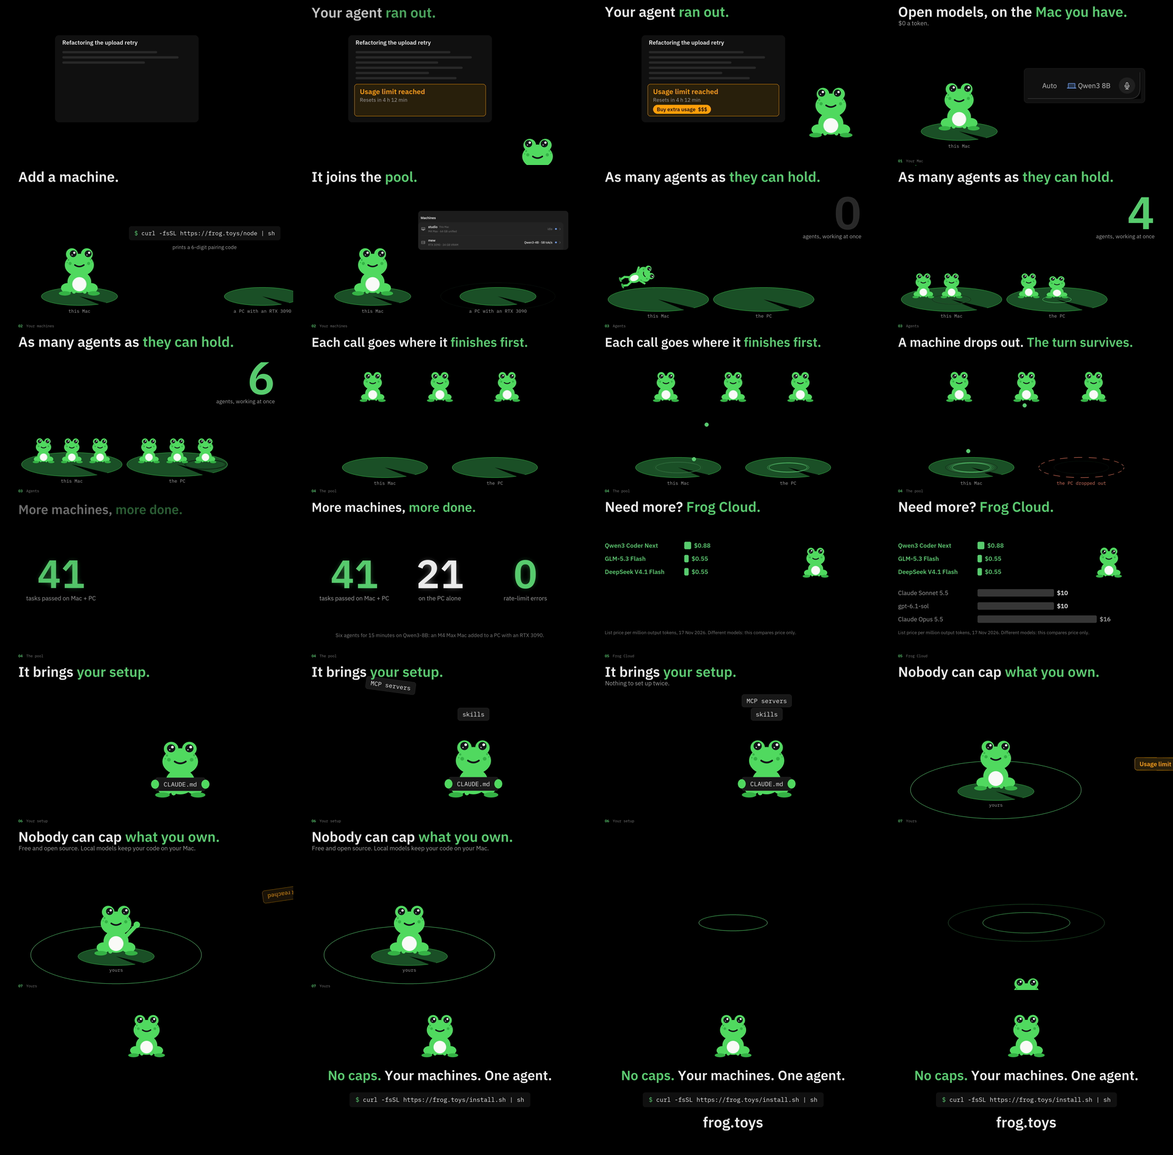
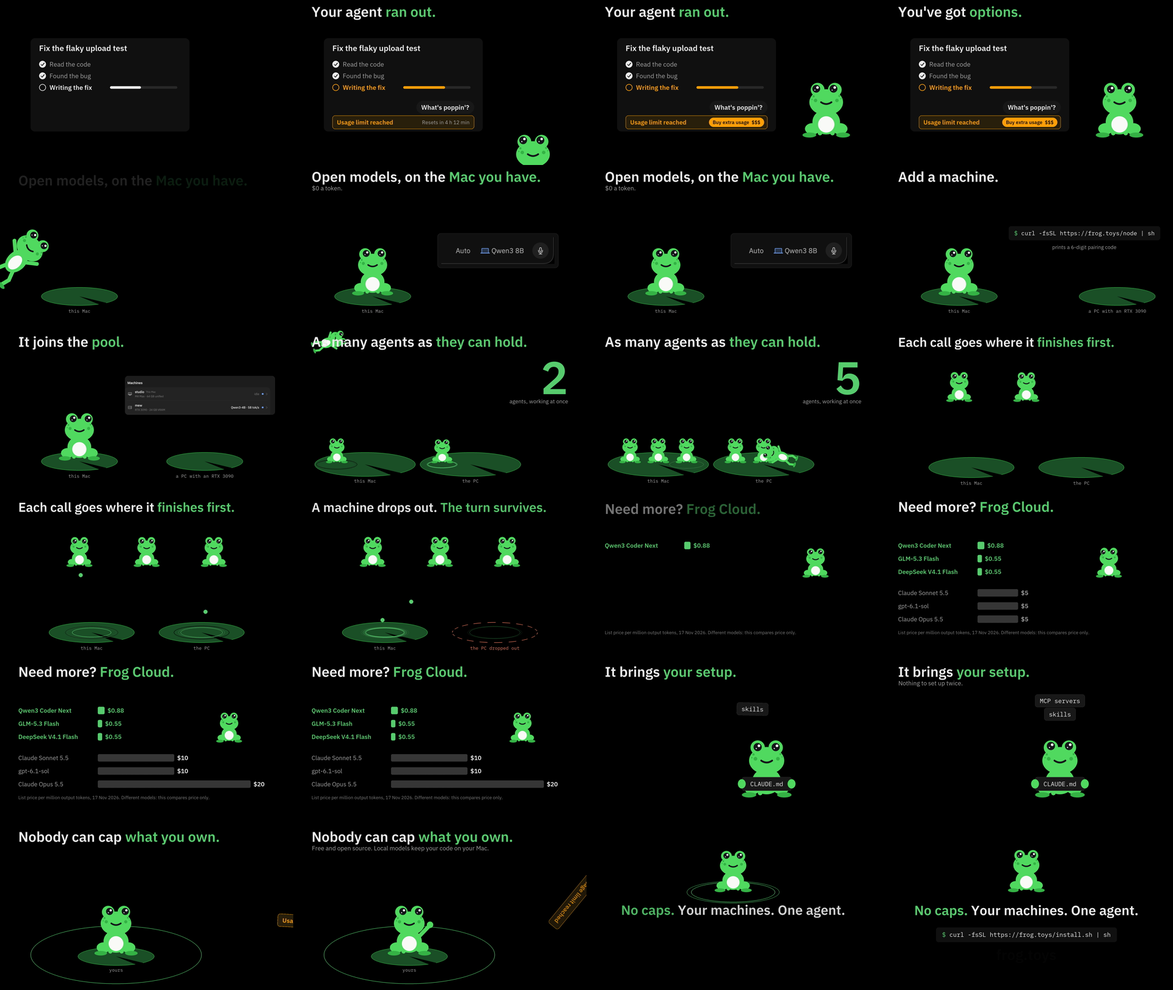
video: recut to "WHATS POPPIN", a clearer open, no bench, no corner labels
The grid is refitted to the new track (144.99 BPM). Its bass-free intro
carries the open, which now starts on a readable task card: two steps
done, a third under way. "What's poppin'?" is the message sent to the
other agent, the frog hops in on "just hopped in", and "I got options"
turns the title to "You've got options." The bench scene and the
section labels are gone. The reel ends in the breakdown at 36.5 s.

diff --git a/video/hype-reel/comp.py b/video/hype-reel/comp.py
@@ -13,7 +13,7 @@ from multiprocessing import Pool
 from pathlib import Path
 import numpy as np
 from PIL import Image, ImageDraw, ImageFont, ImageFilter
-from beats import B, BEAT, CUT, DUR, FPS, JUMP, NFRAMES, W, H
+from beats import ASK, B, BEAT, CUT, DUR, FPS, JUMP, NFRAMES, OPTIONS, W, H
 from frog import sprite, place
 
 HERE = Path(__file__).resolve().parent
@@ -224,34 +224,56 @@ def chip(img, cx, cy, text, alpha=1.0, rot=0.0, size=40, kind="well"):
 
 # ---- shots. Each draws the frame at time t; lt = seconds into the shot.
 def s_open(t, lt):
-    """another agent, mid-task, hits its usage limit. The frog hops in on "no jumper"."""
+    """the intro: you ask another agent what's up, and it has hit its usage limit. The frog hops
+    in on "just hopped in", and on "I got options" the title turns."""
     img = Image.new("RGB", (W, H), CANVAS); d = ImageDraw.Draw(img)
-    x0, y0, x1, y1 = 360, 230, 1300, 800
-    d.rounded_rectangle([x0, y0, x1, y1], radius=26, fill=CARD)
-    d.text((x0 + 48, y0 + 62), "Refactoring the upload retry", font=sans(38), fill=FG, anchor="ls")
-    widths = [620, 760, 540, 700, 480, 660, 580, 420][:6]
-    n = min(6, on_beat(t, 0, 8, 0.5)) if t < B(4) else 6  # the work streams, a line every half beat, until it stops
-    for i in range(n):
-        d.rounded_rectangle([x0 + 48, y0 + 104 + i * 34, x0 + 48 + widths[i], y0 + 118 + i * 34], radius=7, fill=LINE)
-    if t >= B(4):  # the track's dip: it stops
-        k = ease(seg(t, B(4), B(4) + 0.18))
-        bx0, by0, bx1, by1 = x0 + 40, y1 - 250 + (1 - k) * 20, x1 - 40, y1 - 40 + (1 - k) * 20
-        d.rounded_rectangle([bx0, by0, bx1, by1], radius=18, fill=NOTICE_BG, outline=NOTICE, width=2)
-        d.text((bx0 + 36, by0 + 66), "Usage limit reached", font=sans(46), fill=NOTICE, anchor="ls")
-        d.text((bx0 + 36, by0 + 116), "Resets in 4 h 12 min", font=sans(34, False), fill=MUTED, anchor="ls")
-        if t >= B(6):
-            f = sans(34); label = "Buy extra usage  $$$"
-            tw = d.textlength(label, font=f)
-            d.rounded_rectangle([bx0 + 36, by0 + 136, bx0 + 36 + tw + 48, by0 + 194], radius=29, fill=NOTICE)
-            d.text((bx0 + 60, by0 + 165), label, font=f, fill=(0x1a, 0x12, 0x02), anchor="lm")
-        words(img, t, B(4), [("Your agent ", False), ("ran out.", True)], where="top")
-    # the frog: peeks over the bottom edge when the work stops, then hops in on "no jumper"
-    fx, fy, size = 1600, 900, 200
+    x0, y0, x1, y1 = 200, 250, 1240, 860
+    d.rounded_rectangle([x0, y0, x1, y1], radius=28, fill=CARD)
+    # frame 0 already reads: a task, two steps done, a third under way
+    d.text((x0 + 56, y0 + 84), "Fix the flaky upload test", font=sans(52), fill=FG, anchor="ls")
+    stopped = t >= B(4)
+    rows = [("Read the code", True), ("Found the bug", True), ("Writing the fix", False)]
+    for i, (label, done) in enumerate(rows):
+        ry = y0 + 170 + i * 76
+        if done:
+            d.ellipse([x0 + 56, ry - 22, x0 + 100, ry + 22], fill=FG)
+            d.line([(x0 + 67, ry), (x0 + 75, ry + 9), (x0 + 90, ry - 9)], fill=CARD, width=5, joint="curve")
+            d.text((x0 + 124, ry), label, font=sans(42, False), fill=MUTED, anchor="lm")
+        else:
+            col = NOTICE if stopped else FG
+            d.ellipse([x0 + 56, ry - 22, x0 + 100, ry + 22], outline=col, width=4)
+            d.text((x0 + 124, ry), label, font=sans(42), fill=col, anchor="lm")
+            bx, bw = x0 + 520, 440
+            fill = min(0.62, 0.30 + 0.08 * on_beat(t, 0, 4))  # it creeps forward a beat at a time, then stops
+            d.rounded_rectangle([bx, ry - 8, bx + bw, ry + 8], radius=8, fill=LINE)
+            d.rounded_rectangle([bx, ry - 8, bx + bw * fill, ry + 8], radius=8, fill=col)
+    if t >= ASK:  # "What's poppin'?": your message, on the lyric
+        k = ease(seg(t, ASK, ASK + 0.15)); f = sans(42); msg = "What's poppin'?"
+        tw = d.textlength(msg, font=f)
+        bx1, by0 = x1 - 56, y0 + 410 + (1 - k) * 16
+        d.rounded_rectangle([bx1 - tw - 64, by0, bx1, by0 + 84], radius=42, fill=WELL)
+        d.text((bx1 - 32 - tw / 2, by0 + 42), msg, font=f, fill=FG, anchor="mm")
+    if stopped:  # beat 4: the answer
+        k = ease(seg(t, B(4), B(4) + 0.15))
+        ax0, ay0, ax1, ay1 = x0 + 56, y1 - 104 + (1 - k) * 16, x1 - 56, y1 - 16 + (1 - k) * 16
+        d.rounded_rectangle([ax0, ay0, ax1, ay1], radius=18, fill=NOTICE_BG, outline=NOTICE, width=2)
+        d.text((ax0 + 30, ay0 + 44), "Usage limit reached", font=sans(40), fill=NOTICE, anchor="lm")
+        if t < B(6):
+            d.text((ax1 - 30, ay0 + 44), "Resets in 4 h 12 min", font=sans(34, False), fill=MUTED, anchor="rm")
+        else:
+            f = sans(32); label = "Buy extra usage  $$$"; tw = d.textlength(label, font=f)
+            d.rounded_rectangle([ax1 - tw - 70, ay0 + 14, ax1 - 22, ay0 + 74], radius=30, fill=NOTICE)
+            d.text((ax1 - 46 - tw / 2, ay0 + 44), label, font=f, fill=(0x1a, 0x12, 0x02), anchor="mm")
+    if stopped and t < OPTIONS: words(img, t, B(4), [("Your agent ", False), ("ran out.", True)], where="top")
+    if t >= OPTIONS: words(img, t, OPTIONS, [("You've got ", False), ("options.", True)], where="top")
+    # the frog: peeks over the bottom edge when the work stops, then hops in on "just hopped in"
+    fx, fy, size = 1570, 900, 220
     if t < JUMP[0]:
-        k = ease(seg(t, B(4), B(4) + 0.3))
-        if k > 0: frog_at(img, t, fx, H + 190 - 175 * k, size, "head", look=(-0.7, -0.6), blink=False)
+        k = ease(seg(t, B(4), B(4) + 0.25))
+        if k > 0: frog_at(img, t, fx, H + 200 - 185 * k, size, "head", look=(-0.7, -0.6), blink=False)
     else:
-        hop(img, t, JUMP[0], JUMP[1], (fx, H + 260), (fx, fy), size, height=330, look=(-0.8, -0.3))
+        look = (-0.8, -0.3) if t < OPTIONS else (0, 0)
+        hop(img, t, JUMP[0], JUMP[1], (fx, H + 280), (fx, fy), size, height=340, look=look)
     return img
 
 @lru_cache(1)
@@ -335,29 +357,15 @@ def s_swarm(t, lt):
 def s_how(t, lt):
     b = CUT["how"]
     img = Image.new("RGB", (W, H), CANVAS); d = ImageDraw.Draw(img)
-    if t >= B(b + 12):  # the bench: what that added up to
-        words(img, t, B(b + 12), [("More machines, ", False), ("more done.", True)], where="top", size=84)
-        lay = Image.new("RGBA", (W, H), (0, 0, 0, 0)); dl = ImageDraw.Draw(lay)
-        stats = [(41, "tasks passed on Mac + PC", FROG, b + 12), (21, "on the PC alone", FG, b + 13), (0, "rate-limit errors", FROG, b + 14)]
-        for j, (n, label, col, sb) in enumerate(stats):
-            if t < B(sb): continue
-            k = ease(seg(t, B(sb), B(sb) + 0.18)); cx = W / 2 + (j - 1) * 560
-            dl.text((cx, 610 - (1 - k) * 30), str(n), font=sans(260), fill=col + (int(255 * k),), anchor="ms")
-            dl.text((cx, 690), label, font=sans(40, False), fill=MUTED + (int(255 * k),), anchor="ms")
-        glow(img, lay, 22)
-        if t >= B(b + 15):
-            ImageDraw.Draw(img).text((W / 2, 930), "Six agents for 15 minutes on Qwen3-8B: an M4 Max Mac added to a PC with an RTX 3090.",
-                                     font=sans(34, False), fill=FAINT, anchor="ms")
-        return img
-    out = t >= B(b + 8)  # beat 36: the PC drops out
+    out = t >= B(b + 8)  # the PC drops out
     agents = [(520, 470), (960, 470), (1400, 470)]
     mac, pc = (600, 900), (1320, 900)
     pond = Pond(); pond.pad(*mac, 280); pond.pad(*pc, 280, out=out)
-    # calls: from the drop (beat 32) each agent sends one a beat, to the machine that is free
+    # calls: once the agents are in, one leaves every half beat for the machine that is free
     calls = []
-    for i in range(0, 16):
-        cb = b + 4 + i * 0.5
-        if cb >= b + 12: break
+    for i in range(0, 24):
+        cb = b + 2 + i * 0.5
+        if cb + 1 > b + 12: break
         src = agents[i % 3]; to_pc = (i % 2 == 1)
         calls.append((cb, src, to_pc))
     for cb, src, to_pc in calls:
@@ -463,46 +471,33 @@ def s_own(t, lt):
     frog_at(img, t, cx, cy - 6, 200, "wave" if wave else "sit", look=(0.9, -0.1) if t < B(b + 8) else (0, 0))
     # the limit notice from the open flies in, meets the edge of the frog's pond on the beat, and bounces off
     edge = (cx + 610, cy - 60)
-    if B(b + 2) <= t < hit:
-        k = ease(seg(t, B(b + 2), hit))
+    if B(b + 1) <= t < hit:
+        k = ease(seg(t, B(b + 1), hit))
         chip(img, lerp(W + 400, edge[0] + 150, k), lerp(540, edge[1], k), "Usage limit reached", size=40, kind="notice", rot=lerp(-8, 6, k))
     elif hit <= t < B(b + 8):
         k = seg(t, hit, B(b + 8))
         chip(img, edge[0] + 150 + 700 * k, edge[1] - 900 * k + 500 * k * k, "Usage limit reached", size=40, kind="notice", rot=6 - 300 * k, alpha=1 - k * k)
     words(img, t, B(b), [("Nobody can cap ", False), ("what you own.", True)], where="top",
-          sub="Free and open source. Local models keep your code on your Mac." if t >= B(b + 6) else None)
+          sub="Free and open source. Local models keep your code on your Mac." if t >= hit else None)
     return img
 
 END_FROG = (W // 2, 440, 170)  # where the frog sits on the end card: x, y, head size
 
-def s_morph(t, lt):
-    """the breakdown: a ripple a beat, then the frog comes up through the last one."""
-    b = CUT["morph"]
-    img = Image.new("RGB", (W, H), CANVAS)
-    cx, cy = W / 2, 640
-    pond = Pond()
-    for i in range(4):
-        k = seg(t, B(b + i), B(b + i + 3))
-        if 0 < k < 1: pond.ring(cx, cy, 80 + 620 * ease(k), alpha=1 - k, width=4)
-    pond.onto(img)
-    ex, ey, size = END_FROG
-    if t >= B(b + 4):
-        hop(img, t, B(b + 4), B(b + 6), (cx, H + 300), (ex, ey), size, height=420)
-    return img
-
 def s_end(t, lt):
     b = CUT["end"]
     img = Image.new("RGB", (W, H), CANVAS)
-    d = ImageDraw.Draw(img)
     ex, ey, size = END_FROG
-    frog_at(img, t, ex, ey, size, land=B(b), wink=B(b + 8) <= t < B(b + 9), blink=False)
+    pond = Pond(); splash(pond, t, B(b + 1), ex, ey, 260); pond.onto(img)
+    hop(img, t, B(b), B(b + 1), (ex, H + 300), (ex, ey), size, height=380) if t < B(b + 1) else \
+        frog_at(img, t, ex, ey, size, land=B(b + 1), wink=B(b + 6) <= t < B(b + 7), blink=False)
     d = ImageDraw.Draw(img)
-    k1 = ease(seg(t, B(b), B(b) + 0.2))
+    k1 = ease(seg(t, B(b + 1), B(b + 1) + 0.2))
     f = sans(88); parts = [("No caps. ", True), ("Your machines. One agent.", False)]
     x = W / 2 - sum(d.textlength(p, font=f) for p, _ in parts) / 2
     for p, g in parts:
-        d.text((x, 590 - (1 - k1) * 18), p, font=f, fill=tuple(int(c * k1) for c in (FROG if g else FG)), anchor="ls"); x += d.textlength(p, font=f)
-    k3 = ease(seg(t, B(b + 2), B(b + 2) + 0.25))
+        if k1 > 0: d.text((x, 590 - (1 - k1) * 18), p, font=f, fill=tuple(int(c * k1) for c in (FROG if g else FG)), anchor="ls")
+        x += d.textlength(p, font=f)
+    k3 = ease(seg(t, B(b + 3), B(b + 3) + 0.2))
     if k3 > 0:
         line = "curl -fsSL https://frog.toys/install.sh | sh"
         f = mono(40); tw = d.textlength("$ " + line, font=f)
@@ -510,20 +505,19 @@ def s_end(t, lt):
         d.rounded_rectangle([bx0, by0, W - bx0, by0 + 96], radius=16, fill=tuple(int(c * k3) for c in CARD))
         d.text((bx0 + 40, by0 + 62), "$ ", font=f, fill=tuple(int(c * k3) for c in FROG), anchor="ls")
         d.text((bx0 + 40 + d.textlength("$ ", font=f), by0 + 62), line, font=f, fill=tuple(int(c * k3) for c in FG), anchor="ls")
-    k4 = ease(seg(t, B(b + 4), B(b + 4) + 0.25))
+    k4 = ease(seg(t, B(b + 5), B(b + 5) + 0.2))
     if k4 > 0:
         d.text((W / 2, 900 - (1 - k4) * 16), "frog.toys", font=sans(96), fill=tuple(int(c * k4) for c in FG), anchor="ms")
-    fo = seg(t, DUR - 1.0, DUR)
+    fo = seg(t, DUR - 0.7, DUR)
     return dim(img, fo) if fo > 0 else img
 
 SHOTS = {"open": s_open, "mine": s_mine, "pair": s_pair, "swarm": s_swarm, "how": s_how,
-         "price": s_price, "setup": s_setup, "own": s_own, "morph": s_morph, "end": s_end}
+         "price": s_price, "setup": s_setup, "own": s_own, "end": s_end}
 
 def frame(f):
     t = f / FPS
     name = shot_of(t)
     img = SHOTS[name](t, t - B(CUT[name]))
-    hud(img, name)
     img.save(OUT / f"{f:04d}.png", compress_level=1)
     return f
 

diff --git a/video/hype-reel/beats.py b/video/hype-reel/beats.py
@@ -1,13 +1,13 @@
 """The beat grid and the cut list: the one timeline the picture (comp.py) and the music share.
 
-The grid is fitted to the track (Lackvill, "No Jumper"): 129.98 BPM, first kick at 0.098 s
-(librosa beat track, a straight-line fit over 159 beats, phase checked against the kick band;
-drift over 74 s is under 10 ms). B(i) is beat i's time. Every cut is a beat index.
-music.py synthesizes a stand-in on the same grid for when the track isn't there.
-Energy in the track: dips at beats 4-8 and 28-32, a breakdown at 72-80, the big drop at 80."""
+The grid is fitted to the track (Jack Harlow, "WHATS POPPIN"): 144.99 BPM, first beat at 0.034 s
+(librosa beat track, period and phase refined against the kick band). B(i) is beat i's time.
+Every cut is a beat index. The track's shape: a bass-free intro for beats 0-16, the bass drops
+at 16, a small dip at 44-48, and a breakdown from 80. The reel ends in that breakdown.
+music.py synthesizes a stand-in on the same grid for when the track isn't there."""
 
-BPM = 129.984
-PHASE = 0.098
+BPM = 144.9875
+PHASE = 0.0345
 BEAT = 60 / BPM
 FPS = 30
 W, H = 1920, 1080
@@ -18,20 +18,20 @@ def B(i): return PHASE + i * BEAT
 
 # shot -> first beat. Each shot runs to the next one's beat.
 CUT = {
-    "open": 0,     # another agent hits its usage limit; the frog hops in on "no jumper" (2.5-3.1 s)
-    "mine": 8,     # open models on the Mac you have, $0 a token
-    "pair": 12,    # add a machine (12), it joins the pool (16)
-    "swarm": 20,   # six frogs, a landing a beat: as many agents as they can hold
-    "how": 28,     # how the pool works; the drop at 32 starts the calls; 36 a machine drops out; 40 the bench
-    "price": 44,   # Frog Cloud's three models next to other providers' list prices
-    "setup": 52,   # it brings your setup: CLAUDE.md, skills, MCP servers
-    "own": 60,     # nobody can cap what you own: the limit card bounces off
-    "morph": 72,   # the breakdown: ripples, then the frog
-    "end": 80,     # the drop: No caps. Your machines. One agent. frog.toys
+    "open": 0,     # the intro: another agent hits its usage limit; the frog hops in on "hopped in"
+    "mine": 16,    # the bass drops: open models on the Mac you have, $0 a token
+    "pair": 24,    # add a machine (24), it joins the pool (28)
+    "swarm": 32,   # six frogs, a landing a beat: as many agents as they can hold
+    "how": 40,     # how the pool works: calls find a machine; at 48 one drops out and the turn survives
+    "price": 52,   # Frog Cloud's three models next to other providers' list prices
+    "setup": 64,   # it brings your setup: CLAUDE.md, skills, MCP servers
+    "own": 72,     # nobody can cap what you own: the limit notice bounces off on 76
+    "end": 80,     # the breakdown: No caps. Your machines. One agent. frog.toys
 }
-# "no jumper", as sung in the track (whisper word timings): the frog leaves the ground on "no"
-# and lands as "jumper" ends.
-JUMP = (2.50, 2.98)
-END_BEATS = 92
-DUR = B(END_BEATS)  # 42.5 s
+# Words in the track the picture answers (whisper word timings, seconds):
+ASK = 1.10            # "What's poppin'?": the question lands in the other agent's chat
+JUMP = (2.76, 3.28)   # "just hopped in": the frog leaves the ground on "just" and lands as the line ends
+OPTIONS = 4.00        # "I got options": the title turns to "You've got options."
+END_BEATS = 88
+DUR = B(END_BEATS)  # 36.45 s
 NFRAMES = int(round(DUR * FPS))

diff --git a/video/hype-reel/music.py b/video/hype-reel/music.py
@@ -107,7 +107,7 @@ def riser(dur):
 
 
 K, H, HO, C = kick(), hat(), hat(True), clap()
-DROP1, BREAK, DROP2, END = CUT["pair"], CUT["how"], CUT["how"] + 4, CUT["end"]
+DROP1, BREAK, DROP2, END = CUT["mine"], CUT["how"] + 4, CUT["how"] + 8, CUT["end"]
 LAST = int(DUR / BEAT)
 
 for b in range(LAST):

diff --git a/video/hype-reel/README.md b/video/hype-reel/README.md
@@ -1,6 +1,6 @@
 # Frog hype reel
 
-A 42.6 second, 1920x1080, 30 fps reel telling the "no caps" story, rendered entirely from code.
+A 36.5 second, 1920x1080, 30 fps reel telling the "no caps" story, rendered entirely from code.
 It uses real frames of the web app (captured from a mock gateway in headless Chrome) and the Mac
 app's checked-in snapshots. A compositor moves them, with every animation a pure function of time,
 cut to the beat grid of the track it is timed to (see Music). No screen recording, no generative models, no paid
@@ -14,7 +14,7 @@ compositor, contact sheets, ffmpeg encode. The footage step is new.
 ## Re-render
 
 ```bash
-TRACK=~/Downloads/"Lackvill - No Jumper.mp3" video/hype-reel/render.sh
+TRACK=~/Downloads/"Jack Harlow - WHATS POPPIN (Lyrics).mp3" video/hype-reel/render.sh
 ```
 
 It composites `build/frames/`, prepares `build/music.wav` (the track, or the synthesized
@@ -66,24 +66,25 @@ The story is the site's own line, "No caps. Your machines. One agent.": another 
 Frog doesn't, because it runs open models on machines you own. The frog is the lead: machines
 are lily pads, agents are frogs, the pool is the pond (the web app's own new-session imagery).
 
-Cut to Lackvill, "No Jumper": 129.98 BPM, first kick at 0.098 s, so beat i is at
-0.098 + i × 0.4616 s (`beats.py`). The frog's first hop is timed to the words "no jumper"
-(2.50 to 2.98 s, from whisper word timings): it leaves the ground on "no" and lands as "jumper" ends.
+Cut to Jack Harlow, "WHATS POPPIN": 144.99 BPM, first beat at 0.034 s, so beat i is at
+0.034 + i × 0.4138 s (`beats.py`). The track's bass-free intro (beats 0–16) carries the open, the
+bass drops on "Open models", and the reel ends in the breakdown at beat 80. Three lyrics are
+answered on screen (whisper word timings): "What's poppin'?" (1.10 s) is the message sent to the
+other agent, the frog hops in on "just hopped in" (2.76 to 3.28 s), and "I got options" (4.00 s)
+turns the title.
 
 | beats | time | shot | on screen | source of the claim |
 |---|---|---|---|---|
-| 0–8 | 0.1–3.8 s | an unnamed agent's task card streams, then stops on the track's dip: "Usage limit reached. Resets in 4 h 12 min", then "Buy extra usage $$$". The frog peeks over the bottom edge and hops in on "no jumper" | Your agent ran out. | a drawn, generic card: no product is named or copied |
-| 8–12 | 3.8–5.6 s | the frog hops onto a lily pad, "this Mac"; the Mac composer's model chip (Qwen3 8B on this Mac) | Open models, on the Mac you have. / $0 a token. | `README.md:29`, `site/pricing.html` ("On your own machines: $0") |
-| 12–20 | 5.6–9.3 s | the node install line; a second pad drifts in and settles on beat 16 with a ripple; Settings › Machines shows studio (M4 Max) and mew (RTX 3090) | Add a machine. / It joins the pool. | `README.md:13,59`, `site/index.html` (6-digit pairing code) |
-| 20–28 | 9.3–13.0 s | a frog lands on a pad each beat, a counter runs to 6 | As many agents as they can hold. | `README.md:6-7` |
-| 28–36 | 13.0–16.7 s | three agent frogs above two pads; from the drop at beat 32, calls travel to a pad every half beat | Each call goes where it finishes first. | `README.md:59` ("A scheduler sends each call to the machine that will finish it first") |
-| 36–40 | 16.7–18.6 s | the PC's pad empties to a dashed outline; a call in flight turns round and lands on the Mac | A machine drops out. The turn survives. | `README.md:14` ("if a machine drops out mid-turn, the turn finishes on another one") |
-| 40–44 | 18.6–20.4 s | 41, 21, 0, a beat apart, the reel's only glow | More machines, more done. / 41 tasks passed on Mac + PC / 21 on the PC alone / 0 rate-limit errors / the bench's setup line | `docs/no-caps-bench.md`, `site/index.html`, `README.md:15-17` |
-| 44–52 | 20.4–24.1 s | bars: Frog Cloud's three models land on beats 44–46, then three other providers' bars grow at the same dollars per beat while the frog watches the tip | Need more? Frog Cloud. / the six prices / List price per million output tokens, 17 Nov 2026. Different models: this compares price only. | `prices.json` (each row's source URL) |
-| 52–60 | 24.1–27.8 s | `CLAUDE.md` flies in and the frog catches it; `skills` and `MCP servers` land stacked on its head | It brings your setup. / Nothing to set up twice. | `site/index.html` "Brings your setup" |
-| 60–72 | 27.8–33.3 s | the frog on its own pad inside a ring; the limit notice from the open flies in, meets the ring on beat 64 and tumbles away; the frog waves | Nobody can cap what you own. / Free and open source. Local models keep your code on your Mac. | `README.md:55` ("Your code and prompts stay on your machine unless you pick a cloud model"), License |
-| 72–80 | 33.3–37.0 s | the breakdown: a ripple a beat, then the frog hops up through them | | |
-| 80–92 | 37.0–42.6 s | the drop: the frog lands, the line, the install line, frog.toys; it winks on beat 88; fade | No caps. Your machines. One agent. / `curl -fsSL https://frog.toys/install.sh \| sh` / frog.toys | `README.md:3,10` |
+| 0–16 | 0.0–6.7 s | an unnamed agent's task card: two steps done, "Writing the fix" under way. "What's poppin'?" is asked; on beat 4 it stops: "Usage limit reached. Resets in 4 h 12 min", then "Buy extra usage $$$". The frog peeks, then hops in | Your agent ran out. / You've got options. | a drawn, generic card: no product is named or copied |
+| 16–24 | 6.7–10.0 s | the bass drops; the frog hops onto a lily pad, "this Mac"; the Mac composer's model chip (Qwen3 8B on this Mac) | Open models, on the Mac you have. / $0 a token. | `README.md:29`, `site/pricing.html` ("On your own machines: $0") |
+| 24–32 | 10.0–13.3 s | the node install line; a second pad drifts in and settles on beat 28; Settings › Machines shows studio (M4 Max) and mew (RTX 3090) | Add a machine. / It joins the pool. | `README.md:13,59`, `site/index.html` (6-digit pairing code) |
+| 32–40 | 13.3–16.6 s | a frog lands on a pad each beat, a counter runs to 6 | As many agents as they can hold. | `README.md:6-7` |
+| 40–48 | 16.6–19.9 s | three agent frogs above two pads; calls travel to a pad every half beat | Each call goes where it finishes first. | `README.md:59` ("A scheduler sends each call to the machine that will finish it first") |
+| 48–52 | 19.9–21.6 s | the PC's pad empties to a dashed outline; a call in flight turns round and lands on the Mac | A machine drops out. The turn survives. | `README.md:14` |
+| 52–64 | 21.6–26.5 s | bars: Frog Cloud's three models land on beats 52–54, then three other providers' bars grow at the same dollars per beat while the frog watches the tip | Need more? Frog Cloud. / the six prices / List price per million output tokens, 17 Nov 2026. Different models: this compares price only. | `prices.json` (each row's source URL) |
+| 64–72 | 26.5–29.8 s | `CLAUDE.md` flies in and the frog catches it; `skills` and `MCP servers` land stacked on its head | It brings your setup. / Nothing to set up twice. | `site/index.html` "Brings your setup" |
+| 72–80 | 29.8–33.1 s | the frog on its own pad inside a ring; the limit notice from the open flies in, meets the ring on beat 76 and tumbles away; the frog waves | Nobody can cap what you own. / Free and open source. Local models keep your code on your Mac. | `README.md:55`, License |
+| 80–88 | 33.1–36.5 s | the breakdown: the frog hops in and lands with a ripple; the line, the install line, frog.toys; it winks on beat 86; fade | No caps. Your machines. One agent. / `curl -fsSL https://frog.toys/install.sh \| sh` / frog.toys | `README.md:3,10` |
 
 The frog (`frog.py`) is drawn in code. Its head is the mark's own shapes and colours, read from
 `apps/web/public/frog-mark.svg`; the body (belly, arms, hind legs) is new for this reel and is
@@ -93,19 +94,19 @@ looks at things and squashes when it lands.
 The pricing shot names other providers. Its numbers live in `prices.json` with a source per row
 and a date; re-read the sources before publishing. Cheaper tiers exist at those providers (for
 example $0.50 output models) and are not on the chart, and Frog Cloud's OpenRouter-served prices
-are "from" prices. The bench shot leaves out the site's caveat that one task got slower with the
-second machine (`docs/no-caps-bench.md`).
+are "from" prices.
 
 Editing rules, from the board video's notes: text lands whole, motion steps on beats, the frame
-changes completely on the drops, glow is on the bench numbers only, and push-ins alternate with holds.
+changes completely on the drop, and nothing glows.
 
 ## Music
 
-The cut is timed to **Lackvill, "No Jumper"** (Cam's mp3, not in the repo). It is a commercial
-release: fine for a private cut, but publishing the reel needs a licence for it, or the stand-in
-below. Its lyrics are explicit (profanity, a racial slur, guns), which matters for a product video. `TRACK=<path to the mp3> render.sh` uses it from its start, cut to 42.6 s, 1.5 dB down,
-2 s fade. Measured on the encoded mp4: −12.6 LUFS integrated, true peak −1.3 dBFS. The grid was
-fitted, not heard: nobody has checked the sync by ear.
+The cut is timed to **Jack Harlow, "WHATS POPPIN"** (Cam's mp3, not in the repo). It is a
+commercial release: fine for a private cut, but publishing the reel needs a licence for it, or
+the stand-in below. Its lyrics are explicit in places (profanity in the part the reel uses; the
+reel ends at 36.5 s, before the most explicit lines). `TRACK=<path to the mp3> render.sh` uses it
+from its start, cut to 36.5 s, 3.5 dB down, 2 s fade. The grid was fitted, not heard: nobody has
+checked the sync by ear.
 
 Without `TRACK`, `music.py` synthesizes an original stand-in on the same grid (Am F C G, sine,
 saw and noise, fixed seed, no samples), safe to publish but plainer.
